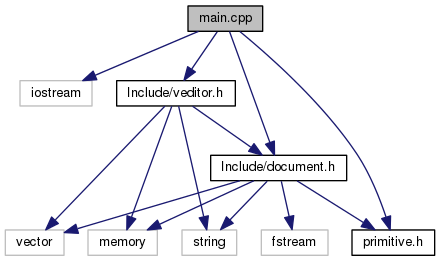
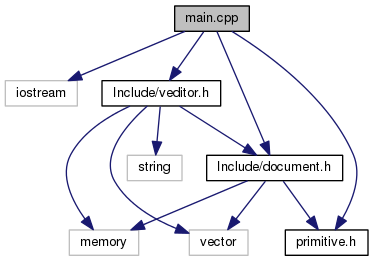
Deploy evgenykol/otus_cpp_05 to github.com/evgenykol/otus_cpp_05.git:gh-pages

diff --git a/document_8h_source.html b/document_8h_source.html
@@ -106,48 +106,46 @@ $(document).ready(function(){initNavTree('document_8h_source.html','');});
 <div class="contents">
 <a href="document_8h.html">Go to the documentation of this file.</a><div class="fragment"><div class="line"><a name="l00001"></a><span class="lineno">    1</span>&#160;<span class="preprocessor">#pragma once</span></div>
 <div class="line"><a name="l00002"></a><span class="lineno">    2</span>&#160;<span class="preprocessor"></span></div>
-<div class="line"><a name="l00003"></a><span class="lineno">    3</span>&#160;<span class="preprocessor">#include &lt;string&gt;</span></div>
-<div class="line"><a name="l00004"></a><span class="lineno">    4</span>&#160;<span class="preprocessor">#include &lt;fstream&gt;</span></div>
-<div class="line"><a name="l00005"></a><span class="lineno">    5</span>&#160;<span class="preprocessor">#include &lt;memory&gt;</span></div>
-<div class="line"><a name="l00006"></a><span class="lineno">    6</span>&#160;<span class="preprocessor">#include &lt;vector&gt;</span></div>
+<div class="line"><a name="l00003"></a><span class="lineno">    3</span>&#160;<span class="preprocessor">#include &lt;memory&gt;</span></div>
+<div class="line"><a name="l00004"></a><span class="lineno">    4</span>&#160;<span class="preprocessor">#include &lt;vector&gt;</span></div>
+<div class="line"><a name="l00005"></a><span class="lineno">    5</span>&#160;</div>
+<div class="line"><a name="l00006"></a><span class="lineno">    6</span>&#160;<span class="preprocessor">#include &quot;<a class="code" href="primitive_8h.html">primitive.h</a>&quot;</span></div>
 <div class="line"><a name="l00007"></a><span class="lineno">    7</span>&#160;</div>
-<div class="line"><a name="l00008"></a><span class="lineno">    8</span>&#160;<span class="preprocessor">#include &quot;<a class="code" href="primitive_8h.html">primitive.h</a>&quot;</span></div>
-<div class="line"><a name="l00009"></a><span class="lineno">    9</span>&#160;</div>
-<div class="line"><a name="l00010"></a><span class="lineno"><a class="line" href="class_document.html">   10</a></span>&#160;<span class="keyword">class </span><a class="code" href="class_document.html">Document</a></div>
-<div class="line"><a name="l00011"></a><span class="lineno">   11</span>&#160;{</div>
-<div class="line"><a name="l00012"></a><span class="lineno">   12</span>&#160;<span class="keyword">private</span>:</div>
-<div class="line"><a name="l00013"></a><span class="lineno">   13</span>&#160;    std::vector&lt;Primitive&gt; *primitives;</div>
-<div class="line"><a name="l00014"></a><span class="lineno">   14</span>&#160;</div>
-<div class="line"><a name="l00015"></a><span class="lineno">   15</span>&#160;<span class="keyword">public</span>:</div>
-<div class="line"><a name="l00016"></a><span class="lineno"><a class="line" href="class_document.html#acdbcbe550084e8c20f4f67eb229ad66a">   16</a></span>&#160;    <a class="code" href="class_document.html#acdbcbe550084e8c20f4f67eb229ad66a">Document</a>() {}</div>
-<div class="line"><a name="l00017"></a><span class="lineno"><a class="line" href="class_document.html#ac2e3f62307dc22baac21ddc10fa1609c">   17</a></span>&#160;    <a class="code" href="class_document.html#ac2e3f62307dc22baac21ddc10fa1609c">~Document</a>() {}</div>
-<div class="line"><a name="l00018"></a><span class="lineno">   18</span>&#160;</div>
-<div class="line"><a name="l00019"></a><span class="lineno"><a class="line" href="class_document.html#a06a3d5c6a7158ffa559de563355039a3">   19</a></span>&#160;    std::unique_ptr&lt;Primitive&gt; <a class="code" href="class_document.html#a06a3d5c6a7158ffa559de563355039a3">AddPrimitive</a>(<a class="code" href="class_primitive.html">Primitive</a> prim)</div>
-<div class="line"><a name="l00020"></a><span class="lineno">   20</span>&#160;    {</div>
-<div class="line"><a name="l00021"></a><span class="lineno">   21</span>&#160;        <span class="keywordflow">return</span> <span class="keyword">nullptr</span>;</div>
-<div class="line"><a name="l00022"></a><span class="lineno">   22</span>&#160;    }</div>
-<div class="line"><a name="l00023"></a><span class="lineno">   23</span>&#160;</div>
-<div class="line"><a name="l00024"></a><span class="lineno"><a class="line" href="class_document.html#a7bb75fbc58ea74840234e582ab3ade05">   24</a></span>&#160;    <span class="keywordtype">void</span> <a class="code" href="class_document.html#a7bb75fbc58ea74840234e582ab3ade05">DeletePrimitive</a>(std::unique_ptr&lt;Primitive&gt; &amp;prim)</div>
-<div class="line"><a name="l00025"></a><span class="lineno">   25</span>&#160;    {</div>
-<div class="line"><a name="l00026"></a><span class="lineno">   26</span>&#160;</div>
-<div class="line"><a name="l00027"></a><span class="lineno">   27</span>&#160;    }</div>
-<div class="line"><a name="l00028"></a><span class="lineno">   28</span>&#160;};</div>
-<div class="line"><a name="l00029"></a><span class="lineno">   29</span>&#160;</div>
-<div class="line"><a name="l00030"></a><span class="lineno">   30</span>&#160;</div>
+<div class="line"><a name="l00008"></a><span class="lineno"><a class="line" href="class_document.html">    8</a></span>&#160;<span class="keyword">class </span><a class="code" href="class_document.html">Document</a></div>
+<div class="line"><a name="l00009"></a><span class="lineno">    9</span>&#160;{</div>
+<div class="line"><a name="l00010"></a><span class="lineno">   10</span>&#160;<span class="keyword">private</span>:</div>
+<div class="line"><a name="l00011"></a><span class="lineno">   11</span>&#160;    std::vector&lt;Primitive&gt; *primitives;</div>
+<div class="line"><a name="l00012"></a><span class="lineno">   12</span>&#160;</div>
+<div class="line"><a name="l00013"></a><span class="lineno">   13</span>&#160;<span class="keyword">public</span>:</div>
+<div class="line"><a name="l00014"></a><span class="lineno"><a class="line" href="class_document.html#acdbcbe550084e8c20f4f67eb229ad66a">   14</a></span>&#160;    <a class="code" href="class_document.html#acdbcbe550084e8c20f4f67eb229ad66a">Document</a>() {}</div>
+<div class="line"><a name="l00015"></a><span class="lineno"><a class="line" href="class_document.html#ac2e3f62307dc22baac21ddc10fa1609c">   15</a></span>&#160;    <a class="code" href="class_document.html#ac2e3f62307dc22baac21ddc10fa1609c">~Document</a>() {}</div>
+<div class="line"><a name="l00016"></a><span class="lineno">   16</span>&#160;</div>
+<div class="line"><a name="l00017"></a><span class="lineno"><a class="line" href="class_document.html#a06a3d5c6a7158ffa559de563355039a3">   17</a></span>&#160;    std::unique_ptr&lt;Primitive&gt; <a class="code" href="class_document.html#a06a3d5c6a7158ffa559de563355039a3">AddPrimitive</a>(<a class="code" href="class_primitive.html">Primitive</a> prim)</div>
+<div class="line"><a name="l00018"></a><span class="lineno">   18</span>&#160;    {</div>
+<div class="line"><a name="l00019"></a><span class="lineno">   19</span>&#160;        <span class="keywordflow">return</span> <span class="keyword">nullptr</span>;</div>
+<div class="line"><a name="l00020"></a><span class="lineno">   20</span>&#160;    }</div>
+<div class="line"><a name="l00021"></a><span class="lineno">   21</span>&#160;</div>
+<div class="line"><a name="l00022"></a><span class="lineno"><a class="line" href="class_document.html#a7bb75fbc58ea74840234e582ab3ade05">   22</a></span>&#160;    <span class="keywordtype">void</span> <a class="code" href="class_document.html#a7bb75fbc58ea74840234e582ab3ade05">DeletePrimitive</a>(std::unique_ptr&lt;Primitive&gt; &amp;prim)</div>
+<div class="line"><a name="l00023"></a><span class="lineno">   23</span>&#160;    {</div>
+<div class="line"><a name="l00024"></a><span class="lineno">   24</span>&#160;</div>
+<div class="line"><a name="l00025"></a><span class="lineno">   25</span>&#160;    }</div>
+<div class="line"><a name="l00026"></a><span class="lineno">   26</span>&#160;};</div>
+<div class="line"><a name="l00027"></a><span class="lineno">   27</span>&#160;</div>
+<div class="line"><a name="l00028"></a><span class="lineno">   28</span>&#160;</div>
 <div class="ttc" id="primitive_8h_html"><div class="ttname"><a href="primitive_8h.html">primitive.h</a></div></div>
-<div class="ttc" id="class_document_html_ac2e3f62307dc22baac21ddc10fa1609c"><div class="ttname"><a href="class_document.html#ac2e3f62307dc22baac21ddc10fa1609c">Document::~Document</a></div><div class="ttdeci">~Document()</div><div class="ttdef"><b>Definition:</b> <a href="document_8h_source.html#l00017">document.h:17</a></div></div>
-<div class="ttc" id="class_document_html"><div class="ttname"><a href="class_document.html">Document</a></div><div class="ttdef"><b>Definition:</b> <a href="document_8h_source.html#l00010">document.h:10</a></div></div>
-<div class="ttc" id="class_document_html_a7bb75fbc58ea74840234e582ab3ade05"><div class="ttname"><a href="class_document.html#a7bb75fbc58ea74840234e582ab3ade05">Document::DeletePrimitive</a></div><div class="ttdeci">void DeletePrimitive(std::unique_ptr&lt; Primitive &gt; &amp;prim)</div><div class="ttdef"><b>Definition:</b> <a href="document_8h_source.html#l00024">document.h:24</a></div></div>
+<div class="ttc" id="class_document_html_ac2e3f62307dc22baac21ddc10fa1609c"><div class="ttname"><a href="class_document.html#ac2e3f62307dc22baac21ddc10fa1609c">Document::~Document</a></div><div class="ttdeci">~Document()</div><div class="ttdef"><b>Definition:</b> <a href="document_8h_source.html#l00015">document.h:15</a></div></div>
+<div class="ttc" id="class_document_html"><div class="ttname"><a href="class_document.html">Document</a></div><div class="ttdef"><b>Definition:</b> <a href="document_8h_source.html#l00008">document.h:8</a></div></div>
+<div class="ttc" id="class_document_html_a7bb75fbc58ea74840234e582ab3ade05"><div class="ttname"><a href="class_document.html#a7bb75fbc58ea74840234e582ab3ade05">Document::DeletePrimitive</a></div><div class="ttdeci">void DeletePrimitive(std::unique_ptr&lt; Primitive &gt; &amp;prim)</div><div class="ttdef"><b>Definition:</b> <a href="document_8h_source.html#l00022">document.h:22</a></div></div>
 <div class="ttc" id="class_primitive_html"><div class="ttname"><a href="class_primitive.html">Primitive</a></div><div class="ttdef"><b>Definition:</b> <a href="primitive_8h_source.html#l00013">primitive.h:13</a></div></div>
-<div class="ttc" id="class_document_html_acdbcbe550084e8c20f4f67eb229ad66a"><div class="ttname"><a href="class_document.html#acdbcbe550084e8c20f4f67eb229ad66a">Document::Document</a></div><div class="ttdeci">Document()</div><div class="ttdef"><b>Definition:</b> <a href="document_8h_source.html#l00016">document.h:16</a></div></div>
-<div class="ttc" id="class_document_html_a06a3d5c6a7158ffa559de563355039a3"><div class="ttname"><a href="class_document.html#a06a3d5c6a7158ffa559de563355039a3">Document::AddPrimitive</a></div><div class="ttdeci">std::unique_ptr&lt; Primitive &gt; AddPrimitive(Primitive prim)</div><div class="ttdef"><b>Definition:</b> <a href="document_8h_source.html#l00019">document.h:19</a></div></div>
+<div class="ttc" id="class_document_html_acdbcbe550084e8c20f4f67eb229ad66a"><div class="ttname"><a href="class_document.html#acdbcbe550084e8c20f4f67eb229ad66a">Document::Document</a></div><div class="ttdeci">Document()</div><div class="ttdef"><b>Definition:</b> <a href="document_8h_source.html#l00014">document.h:14</a></div></div>
+<div class="ttc" id="class_document_html_a06a3d5c6a7158ffa559de563355039a3"><div class="ttname"><a href="class_document.html#a06a3d5c6a7158ffa559de563355039a3">Document::AddPrimitive</a></div><div class="ttdeci">std::unique_ptr&lt; Primitive &gt; AddPrimitive(Primitive prim)</div><div class="ttdef"><b>Definition:</b> <a href="document_8h_source.html#l00017">document.h:17</a></div></div>
 </div><!-- fragment --></div><!-- contents -->
 </div><!-- doc-content -->
 <!-- start footer part -->
 <div id="nav-path" class="navpath"><!-- id is needed for treeview function! -->
   <ul>
     <li class="navelem"><a class="el" href="dir_856524284ebe840938865dc061f982fb.html">Include</a></li><li class="navelem"><a class="el" href="document_8h.html">document.h</a></li>
-    <li class="footer">Generated on Wed Feb 7 2018 18:52:46 for veditor by
+    <li class="footer">Generated on Wed Feb 7 2018 18:59:17 for veditor by
     <a href="http://www.doxygen.org/index.html">
     <img class="footer" src="doxygen.png" alt="doxygen"/></a> 1.8.6 </li>
   </ul>

diff --git a/class_document.html b/class_document.html
@@ -125,7 +125,7 @@ Public Member Functions</h2></td></tr>
 </table>
 <a name="details" id="details"></a><h2 class="groupheader">Detailed Description</h2>
 <div class="textblock">
-<p>Definition at line <a class="el" href="document_8h_source.html#l00010">10</a> of file <a class="el" href="document_8h_source.html">document.h</a>.</p>
+<p>Definition at line <a class="el" href="document_8h_source.html#l00008">8</a> of file <a class="el" href="document_8h_source.html">document.h</a>.</p>
 </div><h2 class="groupheader">Constructor &amp; Destructor Documentation</h2>
 <a class="anchor" id="acdbcbe550084e8c20f4f67eb229ad66a"></a>
 <div class="memitem">
@@ -148,7 +148,7 @@ Public Member Functions</h2></td></tr>
 </table>
 </div><div class="memdoc">
 
-<p>Definition at line <a class="el" href="document_8h_source.html#l00016">16</a> of file <a class="el" href="document_8h_source.html">document.h</a>.</p>
+<p>Definition at line <a class="el" href="document_8h_source.html#l00014">14</a> of file <a class="el" href="document_8h_source.html">document.h</a>.</p>
 
 </div>
 </div>
@@ -173,7 +173,7 @@ Public Member Functions</h2></td></tr>
 </table>
 </div><div class="memdoc">
 
-<p>Definition at line <a class="el" href="document_8h_source.html#l00017">17</a> of file <a class="el" href="document_8h_source.html">document.h</a>.</p>
+<p>Definition at line <a class="el" href="document_8h_source.html#l00015">15</a> of file <a class="el" href="document_8h_source.html">document.h</a>.</p>
 
 </div>
 </div>
@@ -200,7 +200,7 @@ Public Member Functions</h2></td></tr>
 </table>
 </div><div class="memdoc">
 
-<p>Definition at line <a class="el" href="document_8h_source.html#l00019">19</a> of file <a class="el" href="document_8h_source.html">document.h</a>.</p>
+<p>Definition at line <a class="el" href="document_8h_source.html#l00017">17</a> of file <a class="el" href="document_8h_source.html">document.h</a>.</p>
 
 </div>
 </div>
@@ -226,7 +226,7 @@ Public Member Functions</h2></td></tr>
 </table>
 </div><div class="memdoc">
 
-<p>Definition at line <a class="el" href="document_8h_source.html#l00024">24</a> of file <a class="el" href="document_8h_source.html">document.h</a>.</p>
+<p>Definition at line <a class="el" href="document_8h_source.html#l00022">22</a> of file <a class="el" href="document_8h_source.html">document.h</a>.</p>
 
 </div>
 </div>
@@ -239,7 +239,7 @@ Public Member Functions</h2></td></tr>
 <div id="nav-path" class="navpath"><!-- id is needed for treeview function! -->
   <ul>
     <li class="navelem"><a class="el" href="class_document.html">Document</a></li>
-    <li class="footer">Generated on Wed Feb 7 2018 18:52:46 for veditor by
+    <li class="footer">Generated on Wed Feb 7 2018 18:59:17 for veditor by
     <a href="http://www.doxygen.org/index.html">
     <img class="footer" src="doxygen.png" alt="doxygen"/></a> 1.8.6 </li>
   </ul>

diff --git a/version_8h_source.html b/version_8h_source.html
@@ -106,7 +106,7 @@ $(document).ready(function(){initNavTree('version_8h_source.html','');});
 <div class="contents">
 <a href="version_8h.html">Go to the documentation of this file.</a><div class="fragment"><div class="line"><a name="l00001"></a><span class="lineno">    1</span>&#160;<span class="preprocessor">#pragma ones</span></div>
 <div class="line"><a name="l00002"></a><span class="lineno">    2</span>&#160;<span class="preprocessor"></span></div>
-<div class="line"><a name="l00012"></a><span class="lineno"><a class="line" href="version_8h.html#a4a5fc96a4bdd7d68ed99ccce9ca2e77e">   12</a></span>&#160;<span class="preprocessor">#define PROJECT_VERSION_PATCH 5</span></div>
+<div class="line"><a name="l00012"></a><span class="lineno"><a class="line" href="version_8h.html#a4a5fc96a4bdd7d68ed99ccce9ca2e77e">   12</a></span>&#160;<span class="preprocessor">#define PROJECT_VERSION_PATCH 6</span></div>
 <div class="line"><a name="l00013"></a><span class="lineno">   13</span>&#160;<span class="preprocessor"></span></div>
 <div class="line"><a name="l00014"></a><span class="lineno">   14</span>&#160;</div>
 <div class="line"><a name="l00018"></a><span class="lineno"><a class="line" href="version_8h.html#ae64f17a84dc9c7144d1036498ff26fd9">   18</a></span>&#160;<span class="keywordtype">int</span> <a class="code" href="version_8h.html#ae64f17a84dc9c7144d1036498ff26fd9">version</a>()</div>
@@ -122,7 +122,7 @@ $(document).ready(function(){initNavTree('version_8h_source.html','');});
 <div id="nav-path" class="navpath"><!-- id is needed for treeview function! -->
   <ul>
     <li class="navelem"><a class="el" href="version_8h.html">version.h</a></li>
-    <li class="footer">Generated on Wed Feb 7 2018 18:52:46 for veditor by
+    <li class="footer">Generated on Wed Feb 7 2018 18:59:17 for veditor by
     <a href="http://www.doxygen.org/index.html">
     <img class="footer" src="doxygen.png" alt="doxygen"/></a> 1.8.6 </li>
   </ul>

diff --git a/version_8h.html b/version_8h.html
@@ -115,7 +115,7 @@ $(document).ready(function(){initNavTree('version_8h.html','');});
 <table class="memberdecls">
 <tr class="heading"><td colspan="2"><h2 class="groupheader"><a name="define-members"></a>
 Macros</h2></td></tr>
-<tr class="memitem:a4a5fc96a4bdd7d68ed99ccce9ca2e77e"><td class="memItemLeft" align="right" valign="top">#define&#160;</td><td class="memItemRight" valign="bottom"><a class="el" href="version_8h.html#a4a5fc96a4bdd7d68ed99ccce9ca2e77e">PROJECT_VERSION_PATCH</a>&#160;&#160;&#160;5</td></tr>
+<tr class="memitem:a4a5fc96a4bdd7d68ed99ccce9ca2e77e"><td class="memItemLeft" align="right" valign="top">#define&#160;</td><td class="memItemRight" valign="bottom"><a class="el" href="version_8h.html#a4a5fc96a4bdd7d68ed99ccce9ca2e77e">PROJECT_VERSION_PATCH</a>&#160;&#160;&#160;6</td></tr>
 <tr class="separator:a4a5fc96a4bdd7d68ed99ccce9ca2e77e"><td class="memSeparator" colspan="2">&#160;</td></tr>
 </table><table class="memberdecls">
 <tr class="heading"><td colspan="2"><h2 class="groupheader"><a name="func-members"></a>
@@ -136,7 +136,7 @@ Functions</h2></td></tr>
 <div class="memproto">
       <table class="memname">
         <tr>
-          <td class="memname">#define PROJECT_VERSION_PATCH&#160;&#160;&#160;5</td>
+          <td class="memname">#define PROJECT_VERSION_PATCH&#160;&#160;&#160;6</td>
         </tr>
       </table>
 </div><div class="memdoc">
@@ -170,7 +170,7 @@ Functions</h2></td></tr>
 <div id="nav-path" class="navpath"><!-- id is needed for treeview function! -->
   <ul>
     <li class="navelem"><a class="el" href="version_8h.html">version.h</a></li>
-    <li class="footer">Generated on Wed Feb 7 2018 18:52:46 for veditor by
+    <li class="footer">Generated on Wed Feb 7 2018 18:59:17 for veditor by
     <a href="http://www.doxygen.org/index.html">
     <img class="footer" src="doxygen.png" alt="doxygen"/></a> 1.8.6 </li>
   </ul>

diff --git a/document_8h.html b/document_8h.html
@@ -106,9 +106,7 @@ $(document).ready(function(){initNavTree('document_8h.html','');});
 <div class="title">document.h File Reference</div>  </div>
 </div><!--header-->
 <div class="contents">
-<div class="textblock"><code>#include &lt;string&gt;</code><br/>
-<code>#include &lt;fstream&gt;</code><br/>
-<code>#include &lt;memory&gt;</code><br/>
+<div class="textblock"><code>#include &lt;memory&gt;</code><br/>
 <code>#include &lt;vector&gt;</code><br/>
 <code>#include &quot;<a class="el" href="primitive_8h_source.html">primitive.h</a>&quot;</code><br/>
 </div><div class="textblock"><div class="dynheader">
@@ -116,7 +114,7 @@ Include dependency graph for document.h:</div>
 <div class="dyncontent">
 <div class="center"><img src="document_8h__incl.png" border="0" usemap="#_include_2document_8h" alt=""/></div>
 <map name="_include_2document_8h" id="_include_2document_8h">
-<area shape="rect" id="node6" href="primitive_8h.html" title="primitive.h" alt="" coords="351,80,432,107"/></map>
+<area shape="rect" id="node4" href="primitive_8h.html" title="primitive.h" alt="" coords="181,80,263,107"/></map>
 </div>
 </div><div class="textblock"><div class="dynheader">
 This graph shows which files directly or indirectly include this file:</div>
@@ -139,7 +137,7 @@ Classes</h2></td></tr>
 <div id="nav-path" class="navpath"><!-- id is needed for treeview function! -->
   <ul>
     <li class="navelem"><a class="el" href="dir_856524284ebe840938865dc061f982fb.html">Include</a></li><li class="navelem"><a class="el" href="document_8h.html">document.h</a></li>
-    <li class="footer">Generated on Wed Feb 7 2018 18:52:46 for veditor by
+    <li class="footer">Generated on Wed Feb 7 2018 18:59:17 for veditor by
     <a href="http://www.doxygen.org/index.html">
     <img class="footer" src="doxygen.png" alt="doxygen"/></a> 1.8.6 </li>
   </ul>

diff --git a/main_8cpp.html b/main_8cpp.html
@@ -115,7 +115,7 @@ Include dependency graph for main.cpp:</div>
 <div class="dyncontent">
 <div class="center"><img src="main_8cpp__incl.png" border="0" usemap="#main_8cpp" alt=""/></div>
 <map name="main_8cpp" id="main_8cpp">
-<area shape="rect" id="node3" href="document_8h.html" title="Include/document.h" alt="" coords="211,155,345,181"/><area shape="rect" id="node8" href="primitive_8h.html" title="primitive.h" alt="" coords="352,229,433,256"/><area shape="rect" id="node9" href="veditor_8h.html" title="Include/veditor.h" alt="" coords="117,80,235,107"/></map>
+<area shape="rect" id="node3" href="document_8h.html" title="Include/document.h" alt="" coords="207,155,341,181"/><area shape="rect" id="node6" href="primitive_8h.html" title="primitive.h" alt="" coords="285,229,367,256"/><area shape="rect" id="node7" href="veditor_8h.html" title="Include/veditor.h" alt="" coords="102,80,220,107"/></map>
 </div>
 </div>
 <p><a href="main_8cpp_source.html">Go to the source code of this file.</a></p>
@@ -149,7 +149,7 @@ Functions</h2></td></tr>
 <div id="nav-path" class="navpath"><!-- id is needed for treeview function! -->
   <ul>
     <li class="navelem"><a class="el" href="main_8cpp.html">main.cpp</a></li>
-    <li class="footer">Generated on Wed Feb 7 2018 18:52:46 for veditor by
+    <li class="footer">Generated on Wed Feb 7 2018 18:59:17 for veditor by
     <a href="http://www.doxygen.org/index.html">
     <img class="footer" src="doxygen.png" alt="doxygen"/></a> 1.8.6 </li>
   </ul>

diff --git a/veditor_8h.html b/veditor_8h.html
@@ -115,7 +115,7 @@ Include dependency graph for veditor.h:</div>
 <div class="dyncontent">
 <div class="center"><img src="veditor_8h__incl.png" border="0" usemap="#_include_2veditor_8h" alt=""/></div>
 <map name="_include_2veditor_8h" id="_include_2veditor_8h">
-<area shape="rect" id="node5" href="document_8h.html" title="document.h" alt="" coords="172,80,263,107"/><area shape="rect" id="node7" href="primitive_8h.html" title="primitive.h" alt="" coords="179,155,260,181"/></map>
+<area shape="rect" id="node5" href="document_8h.html" title="document.h" alt="" coords="132,80,223,107"/><area shape="rect" id="node6" href="primitive_8h.html" title="primitive.h" alt="" coords="124,155,205,181"/></map>
 </div>
 </div><div class="textblock"><div class="dynheader">
 This graph shows which files directly or indirectly include this file:</div>
@@ -138,7 +138,7 @@ Classes</h2></td></tr>
 <div id="nav-path" class="navpath"><!-- id is needed for treeview function! -->
   <ul>
     <li class="navelem"><a class="el" href="dir_856524284ebe840938865dc061f982fb.html">Include</a></li><li class="navelem"><a class="el" href="veditor_8h.html">veditor.h</a></li>
-    <li class="footer">Generated on Wed Feb 7 2018 18:52:46 for veditor by
+    <li class="footer">Generated on Wed Feb 7 2018 18:59:17 for veditor by
     <a href="http://www.doxygen.org/index.html">
     <img class="footer" src="doxygen.png" alt="doxygen"/></a> 1.8.6 </li>
   </ul>

diff --git a/primitive_8h_source.html b/primitive_8h_source.html
@@ -206,7 +206,7 @@ $(document).ready(function(){initNavTree('primitive_8h_source.html','');});
 <div id="nav-path" class="navpath"><!-- id is needed for treeview function! -->
   <ul>
     <li class="navelem"><a class="el" href="dir_856524284ebe840938865dc061f982fb.html">Include</a></li><li class="navelem"><a class="el" href="primitive_8h.html">primitive.h</a></li>
-    <li class="footer">Generated on Wed Feb 7 2018 18:52:46 for veditor by
+    <li class="footer">Generated on Wed Feb 7 2018 18:59:17 for veditor by
     <a href="http://www.doxygen.org/index.html">
     <img class="footer" src="doxygen.png" alt="doxygen"/></a> 1.8.6 </li>
   </ul>

diff --git a/veditor_8h_source.html b/veditor_8h_source.html
@@ -155,7 +155,7 @@ $(document).ready(function(){initNavTree('veditor_8h_source.html','');});
 <div id="nav-path" class="navpath"><!-- id is needed for treeview function! -->
   <ul>
     <li class="navelem"><a class="el" href="dir_856524284ebe840938865dc061f982fb.html">Include</a></li><li class="navelem"><a class="el" href="veditor_8h.html">veditor.h</a></li>
-    <li class="footer">Generated on Wed Feb 7 2018 18:52:46 for veditor by
+    <li class="footer">Generated on Wed Feb 7 2018 18:59:17 for veditor by
     <a href="http://www.doxygen.org/index.html">
     <img class="footer" src="doxygen.png" alt="doxygen"/></a> 1.8.6 </li>
   </ul>

diff --git a/primitive_8h.html b/primitive_8h.html
@@ -158,7 +158,7 @@ Typedefs</h2></td></tr>
 <div id="nav-path" class="navpath"><!-- id is needed for treeview function! -->
   <ul>
     <li class="navelem"><a class="el" href="dir_856524284ebe840938865dc061f982fb.html">Include</a></li><li class="navelem"><a class="el" href="primitive_8h.html">primitive.h</a></li>
-    <li class="footer">Generated on Wed Feb 7 2018 18:52:46 for veditor by
+    <li class="footer">Generated on Wed Feb 7 2018 18:59:17 for veditor by
     <a href="http://www.doxygen.org/index.html">
     <img class="footer" src="doxygen.png" alt="doxygen"/></a> 1.8.6 </li>
   </ul>

diff --git a/main_8cpp_source.html b/main_8cpp_source.html
@@ -143,7 +143,7 @@ $(document).ready(function(){initNavTree('main_8cpp_source.html','');});
 <div id="nav-path" class="navpath"><!-- id is needed for treeview function! -->
   <ul>
     <li class="navelem"><a class="el" href="main_8cpp.html">main.cpp</a></li>
-    <li class="footer">Generated on Wed Feb 7 2018 18:52:46 for veditor by
+    <li class="footer">Generated on Wed Feb 7 2018 18:59:17 for veditor by
     <a href="http://www.doxygen.org/index.html">
     <img class="footer" src="doxygen.png" alt="doxygen"/></a> 1.8.6 </li>
   </ul>

diff --git a/dir_856524284ebe840938865dc061f982fb.html b/dir_856524284ebe840938865dc061f982fb.html
@@ -121,7 +121,7 @@ Files</h2></td></tr>
 <div id="nav-path" class="navpath"><!-- id is needed for treeview function! -->
   <ul>
     <li class="navelem"><a class="el" href="dir_856524284ebe840938865dc061f982fb.html">Include</a></li>
-    <li class="footer">Generated on Wed Feb 7 2018 18:52:46 for veditor by
+    <li class="footer">Generated on Wed Feb 7 2018 18:59:17 for veditor by
     <a href="http://www.doxygen.org/index.html">
     <img class="footer" src="doxygen.png" alt="doxygen"/></a> 1.8.6 </li>
   </ul>
